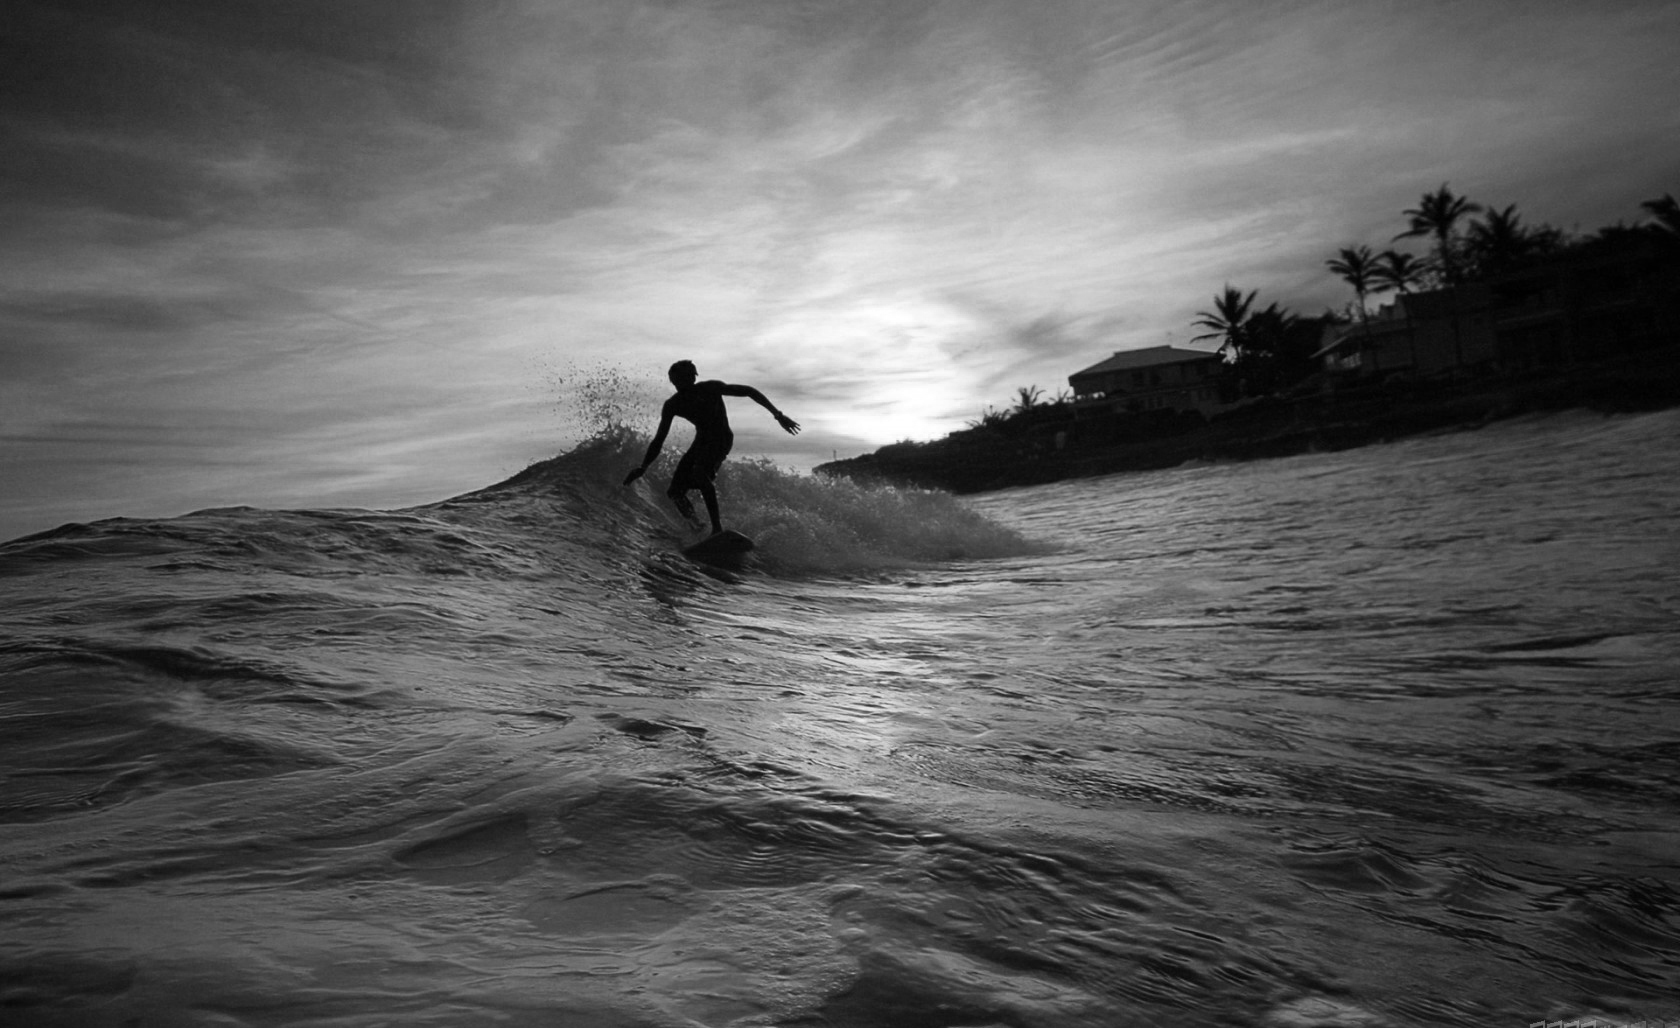
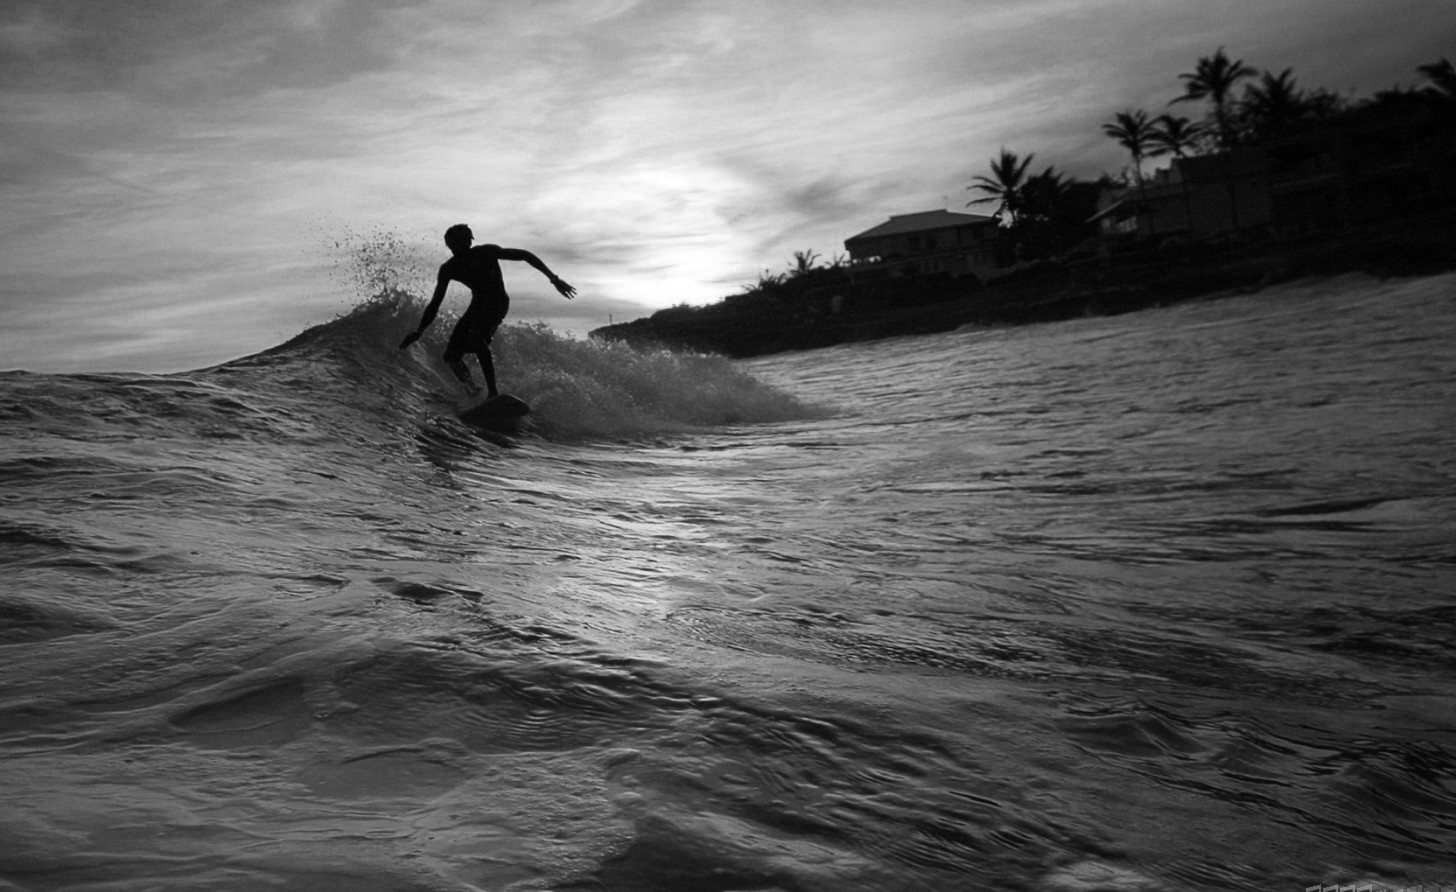
added resized image and adjust spans on home

diff --git a/css/surfscore.css b/css/surfscore.css
@@ -144,7 +144,7 @@ table.tablesorter thead tr .headerSortDown, table.tablesorter thead tr .headerSo
     opacity:0.6;
     min-height: 20px;
     padding: 35px;
-    margin-top: 100px;
+    margin-top: -90px;
     margin-bottom: 20px;
     background-color: #ffffff;
     border: 1px solid #e3e3e3;

diff --git a/home.php b/home.php
@@ -47,31 +47,31 @@
   <!-- Wrap the rest of the page in another container to center all the content. -->
 
   <div class="container marketing">
-    <div class="well-clear">
+   <div class="well-clear" style="opacity:0.6;"> 
       <!-- Three columns of text below the carousel -->
       <div class="row">
-        <div class="span3">
-          <img class="img-circle" src="http://placehold.it/140x140">
-          <h2>Catch Waves.</h2>
-          <p>Grab your board, head to the beach and hit the waves. Surfscore will take
-            care of the rest.</p>
-          <p><a class="btn" href="#">View details &raquo;</a></p>
-        </div><!-- /.span4 -->
-        <div class="span3 offset1">
-          <img class="img-circle" src="http://placehold.it/140x140">
-          <h2>Get Your Surfscore.</h2>
-          <p>Drill down on your session to get stats and info. Chill out with friends and
-            compare scores.</p>
-          <p><a class="btn" href="#">View details &raquo;</a></p>
-        </div><!-- /.span4 -->
-        <div class="span3 offset1">
-          <img class="img-circle" src="http://placehold.it/140x140">
-          <h2>Be More Radical.</h2>
-          <p>More waves. More tricks. Let Surfscore help you become a better surfer.</p>
-          <p><a class="btn" href="#">View details &raquo;</a></p>
-        </div><!-- /.span4 -->
-      </div><!-- /.row -->
-    </div>  
+          <div class="span3">
+            <img class="img-circle" src="http://placehold.it/140x140">
+            <h2>Catch Waves.</h2>
+            <p>Grab your board, head to the beach and hit the waves. Surfscore will take
+              care of the rest.</p>
+            <p><a class="btn" href="#">View details &raquo;</a></p>
+          </div>
+          <div class="span3 offset1">
+            <img class="img-circle" src="http://placehold.it/140x140">
+            <h2>Get Your Surfscore.</h2>
+            <p>Drill down on your session to get stats and info. Chill out with friends and
+              compare scores.</p>
+            <p><a class="btn" href="#">View details &raquo;</a></p>
+          </div><!-- /.span4 -->
+          <div class="span3 offset1">
+            <img class="img-circle" src="http://placehold.it/140x140">
+            <h2>Be More Radical.</h2>
+            <p>More waves. More tricks. Let Surfscore help you become a better surfer.</p>
+            <p><a class="btn" href="#">View details &raquo;</a></p>
+          </div><!-- /.span4 -->
+        </div><!-- /.row -->
+      </div>
     
     <!-- START THE FEATURETTES -->
     
